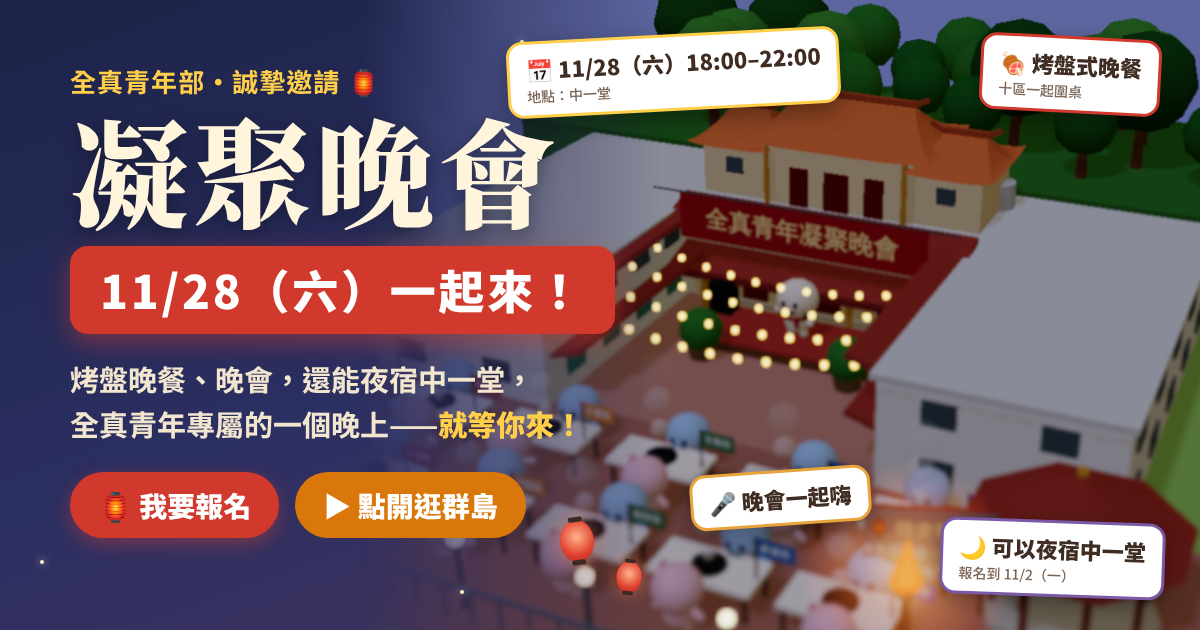
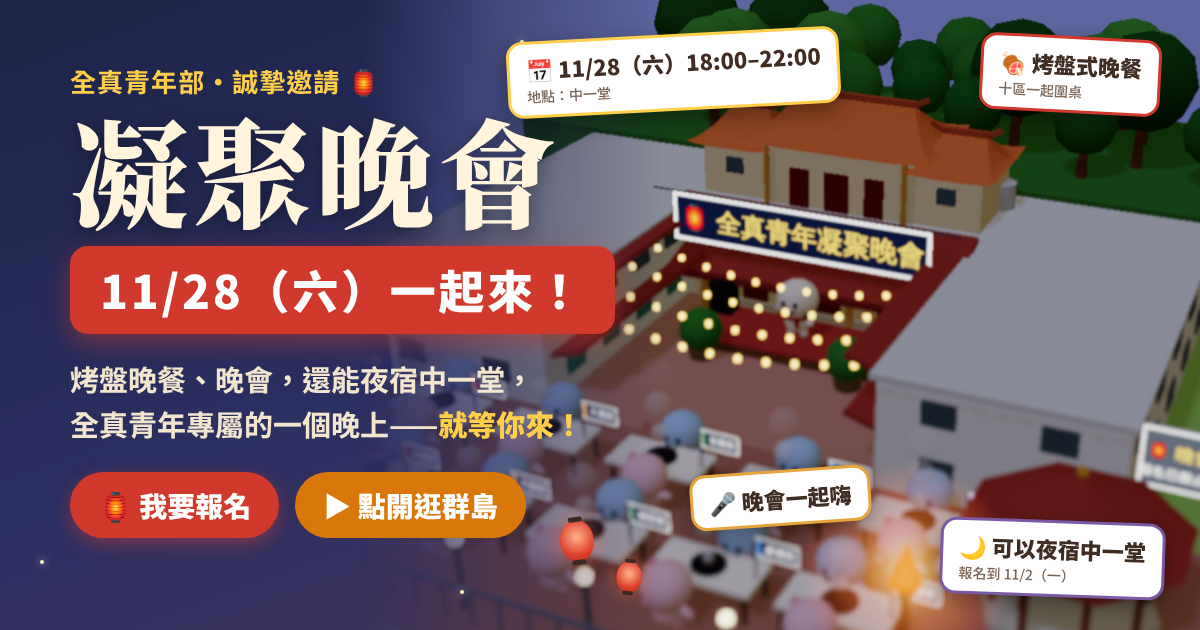
全真群島 v261028.11：中一島文宣改高對比深藍牌，報名牌不再跟涼亭重疊，重拍晚會海報
Claude-Session: https://claude.ai/code/session_01GmcmD8V22uoDLYZhsy1cUR

diff --git a/islands/index.html b/islands/index.html
@@ -443,7 +443,7 @@
   <p class="count bottle-count" id="bottleChip" role="button" tabindex="0" aria-label="前往漂流瓶島，看瓶中信或寫一封"><span id="bottleChipText">瓶中信</span></p>
   <a class="board" href="https://forms.gle/PG7yAsyz1r4unXXZ8" target="_blank" rel="noopener">🛶 我要登島</a>
   <span class="status" id="status" data-state="backup" role="button" tabindex="0" title="點一下重新讀取"><i></i><span id="statusText">讀取資料中…</span></span>
-  <span class="ver">v261028.10</span>
+  <span class="ver">v261028.11</span>
   </div></div>
 </div>
 
@@ -3091,6 +3091,13 @@ const zyIsl = (() => {
   const party = new THREE.Group(); mark.add(party);      // 當天才出現：人、烤盤的煙、舞台上的主持人
   venue.userData.noMerge = party.userData.noMerge = true;   // 會跟著日期顯示、收起來，不能合併
   const cloth = lam('#fbf6ec'), legM = lam('#7a5236'), grillM = lam('#2f2b2a');
+  // 島上文宣一律用「深藍底＋金白大字＋白色粗框」：群島上沒有深藍，跟紅瓦、紅涼亭、白牆、綠樹、紅磚地都對得出來，
+  // 牌面不吃光影（MeshBasic），白天不會被陰影壓暗，晚上像燈箱一樣看得清楚
+  const SIGN_BG = '#1d2547', SIGN_GOLD = '#ffd75e', SIGN_FONT = 'bold {px}px "Noto Sans TC", "PingFang TC", sans-serif';
+  const signFont = (px) => SIGN_FONT.replace('{px}', px);
+  const signMat = (tex) => new THREE.MeshBasicMaterial({ map: tex, side: THREE.DoubleSide, toneMapped: false });
+  const signFrame = (c, w, h, lw) => { c.strokeStyle = '#ffffff'; c.lineWidth = lw; c.strokeRect(lw / 2, lw / 2, w - lw, h - lw); };
+  const frameM = lam('#ffffff');
   // 10 區的烤盤長桌：兩排、每排五張，每張桌子一支小旗寫區名
   const REGIONS = ['天龍區', '天選區', '至善區', '光輝區', '天如區', '天儲區', '天隆區', '德容區', '參健區', '育樂營'];
   const flagCols = ['#e0412f', '#f2a33a', '#3f8a5a', '#2f80c9', '#8f5bd6'];
@@ -3103,9 +3110,12 @@ const zyIsl = (() => {
     for (const [lx, lz] of [[-0.75, -0.35], [0.75, -0.35], [-0.75, 0.35], [0.75, 0.35]]) mesh(new THREE.BoxGeometry(0.06, 0.6, 0.06), legM, lx, 0.3, lz, T, false);
     mesh(new THREE.CylinderGeometry(0.28, 0.28, 0.05, 16), grillM, 0, 0.69, 0, T, false);
     mesh(new THREE.CylinderGeometry(0.06, 0.08, 0.06, 8), lam('#5f6b73'), 0, 0.66, 0, T, false);
-    const ftex = canvasTex(128, 64, (c) => { c.fillStyle = flagCols[i % 5]; c.fillRect(0, 0, 128, 64); c.fillStyle = '#fff'; c.font = 'bold 34px "Noto Sans TC", "PingFang TC", sans-serif'; c.textAlign = 'center'; c.textBaseline = 'middle'; c.fillText(name, 64, 34); });
+    const ftex = canvasTex(160, 80, (c) => {
+      c.fillStyle = SIGN_BG; c.fillRect(0, 0, 160, 80); c.fillStyle = flagCols[i % 5]; c.fillRect(0, 0, 20, 80);
+      signFrame(c, 160, 80, 6); c.fillStyle = '#ffffff'; c.font = signFont(36); c.textAlign = 'center'; c.textBaseline = 'middle'; c.fillText(name, 90, 42);
+    });
     mesh(new THREE.CylinderGeometry(0.02, 0.02, 0.8, 5), legM, 0.78, 1.0, 0, T, false);
-    mesh(new THREE.PlaneGeometry(0.62, 0.31), new THREE.MeshLambertMaterial({ map: ftex, side: THREE.DoubleSide }), 0.78 + 0.31, 1.24, 0, T, false);
+    mesh(new THREE.PlaneGeometry(0.7, 0.35), signMat(ftex), 0.78 + 0.35, 1.24, 0, T, false);
     for (let k = 0; k < 3; k++) {
       const sm = mesh(new THREE.SphereGeometry(0.16, 8, 6), new THREE.MeshLambertMaterial({ color: '#f4f1ea', transparent: true, opacity: 0, depthWrite: false }), 0, 0.8, 0, T, false);
       sm.userData.phase = k / 3 + i * 0.13; smoke.push(sm); party.add(sm); sm.position.add(T.position);
@@ -3118,8 +3128,8 @@ const zyIsl = (() => {
   mesh(new THREE.BoxGeometry(4.3, 0.06, 1.6), lam('#c0503f'), 0, 0.32, 1.1, ST, false);
   for (const sx of [-1.9, 1.9]) { mesh(new THREE.BoxGeometry(0.5, 0.7, 0.4), lam('#2f2b2a'), sx, 0.7, 0.6, ST); }   // 兩顆音響
   // 橫布條：掛在兩翼之間
-  const bTex = canvasTex(512, 96, (c) => { c.fillStyle = '#c0392b'; c.fillRect(0, 0, 512, 96); c.fillStyle = '#ffe9a8'; c.font = 'bold 50px "Noto Sans TC", "PingFang TC", sans-serif'; c.textAlign = 'center'; c.textBaseline = 'middle'; c.fillText('全真青年凝聚晚會', 256, 50); });
-  mesh(new THREE.PlaneGeometry(5.4, 1.0), new THREE.MeshLambertMaterial({ map: bTex, side: THREE.DoubleSide }), 0, 2.55, 0.9, ST, false);
+  const bTex = canvasTex(640, 120, (c) => { c.fillStyle = SIGN_BG; c.fillRect(0, 0, 640, 120); signFrame(c, 640, 120, 10); c.fillStyle = SIGN_GOLD; c.font = signFont(64); c.textAlign = 'center'; c.textBaseline = 'middle'; c.fillText('🏮 全真青年凝聚晚會', 320, 64); });
+  mesh(new THREE.PlaneGeometry(5.6, 1.05), signMat(bTex), 0, 2.55, 1.0, ST, false);
   mesh(new THREE.CylinderGeometry(0.02, 0.02, WX * 2, 4), ropeM, 0, 3.05, 0.9, ST, false).rotation.z = Math.PI / 2;
   // 燈串：兩翼屋頂之間拉四條，微微下垂，掛一顆顆暖黃小燈泡（天黑會亮）
   const bulbM = glow('#ffd36b', 0.3, 2.2);
@@ -3133,17 +3143,18 @@ const zyIsl = (() => {
   mesh(new THREE.BoxGeometry(1.4, 0.08, 0.6), cloth, -1.2, 0.62, 0.3, PV);
   for (const lx of [-0.6, 0.6]) mesh(new THREE.BoxGeometry(0.06, 0.6, 0.5), legM, -1.2 + lx, 0.3, 0.3, PV, false);
   // 涼亭＝晚會報名處：旁邊立一塊「點我報名」的牌子，屋頂上一個金色箭頭上下跳；點涼亭或牌子就開報名表
-  const RS = new THREE.Group(); RS.position.set(-1.9, 0, 1.0); RS.rotation.y = 0.3; PV.add(RS);
+  // 牌子立在涼亭右後方的空地（右翼前面、島邊以內），不跟涼亭屋頂或報到桌重疊
+  const RS = new THREE.Group(); RS.position.set(1.5, 0, -2.4); PV.add(RS);
   const rsCanvas = document.createElement('canvas'); rsCanvas.width = 384; rsCanvas.height = 200;
   const rsTex = new THREE.CanvasTexture(rsCanvas); rsTex.colorSpace = THREE.SRGBColorSpace;
-  mesh(new THREE.BoxGeometry(1.9, 1.0, 0.08), [lam('#c0392b'), lam('#c0392b'), lam('#c0392b'), lam('#c0392b'), new THREE.MeshLambertMaterial({ map: rsTex }), lam('#c0392b')], 0, 1.45, 0, RS, false);
+  mesh(new THREE.BoxGeometry(2.1, 1.1, 0.08), [frameM, frameM, frameM, frameM, signMat(rsTex), frameM], 0, 1.5, 0, RS, false);
   for (const x of [-0.8, 0.8]) mesh(new THREE.CylinderGeometry(0.04, 0.04, 1.5, 6), legM, x, 0.75, -0.06, RS, false);
   const drawReg = (open) => {
     const c = rsCanvas.getContext('2d');
-    c.fillStyle = open ? '#c0392b' : '#8d9196'; c.fillRect(0, 0, 384, 200);
-    c.textAlign = 'center'; c.textBaseline = 'middle'; c.fillStyle = '#ffe9a8';
-    c.font = 'bold 56px "Noto Sans TC", "PingFang TC", sans-serif'; c.fillText('🏮 晚會報名處', 192, 70);
-    c.fillStyle = '#ffffff'; c.font = 'bold 40px "Noto Sans TC", "PingFang TC", sans-serif'; c.fillText(open ? '👆 點我報名・到 11/2' : '報名已截止・謝謝大家', 192, 148);
+    c.fillStyle = open ? SIGN_BG : '#5f6672'; c.fillRect(0, 0, 384, 200); signFrame(c, 384, 200, 10);
+    c.textAlign = 'center'; c.textBaseline = 'middle'; c.fillStyle = SIGN_GOLD;
+    c.font = signFont(54); c.fillText('🏮 晚會報名處', 192, 72);
+    c.fillStyle = '#ffffff'; c.font = signFont(38); c.fillText(open ? '👆 點我報名・到 11/2' : '報名已截止・謝謝大家', 192, 146);
     rsTex.needsUpdate = true;
   };
   const arrow = new THREE.Group(); arrow.position.set(0, 3.1, 0); PV.add(arrow);
@@ -3155,18 +3166,17 @@ const zyIsl = (() => {
   const SB = new THREE.Group(); SB.position.set(-(px(PZ0 + 1.6) - 1.9), 0, PZ0 + 1.6); SB.rotation.y = 0.35; mark.add(SB);
   const sbCanvas = document.createElement('canvas'); sbCanvas.width = 512; sbCanvas.height = 300;
   const sbTex = new THREE.CanvasTexture(sbCanvas); sbTex.colorSpace = THREE.SRGBColorSpace;
-  mesh(new THREE.BoxGeometry(3.0, 1.75, 0.1), [lam('#7a5236'), lam('#7a5236'), lam('#7a5236'), lam('#7a5236'), new THREE.MeshLambertMaterial({ map: sbTex }), lam('#7a5236')], 0, 1.75, 0, SB, false);
+  mesh(new THREE.BoxGeometry(3.0, 1.75, 0.1), [frameM, frameM, frameM, frameM, signMat(sbTex), frameM], 0, 1.75, 0, SB, false);
   for (const x of [-1.3, 1.3]) mesh(new THREE.CylinderGeometry(0.06, 0.06, 2.6, 6), legM, x, 1.3, -0.08, SB, false);
   let sbText = '';
   const drawSign = (lines) => {
     const key = lines.join('|'); if (key === sbText) return; sbText = key;
     const c = sbCanvas.getContext('2d');
-    c.fillStyle = '#fff6e0'; c.fillRect(0, 0, 512, 300);
-    c.fillStyle = '#c0392b'; c.fillRect(0, 0, 512, 78);
+    c.fillStyle = SIGN_BG; c.fillRect(0, 0, 512, 300); signFrame(c, 512, 300, 12);
     c.textAlign = 'center'; c.textBaseline = 'middle';
-    c.fillStyle = '#ffe9a8'; c.font = 'bold 44px "Noto Sans TC", "PingFang TC", sans-serif'; c.fillText(lines[0], 256, 42);
-    c.fillStyle = '#3f2c22'; c.font = 'bold 54px "Noto Sans TC", "PingFang TC", sans-serif'; c.fillText(lines[1], 256, 150);
-    c.fillStyle = '#7a6455'; c.font = 'bold 34px "Noto Sans TC", "PingFang TC", sans-serif'; c.fillText(lines[2], 256, 236);
+    c.fillStyle = SIGN_GOLD; c.font = signFont(42); c.fillText(lines[0], 256, 58);
+    c.fillStyle = '#ffffff'; c.font = signFont(70); c.fillText(lines[1], 256, 152);
+    c.fillStyle = SIGN_GOLD; c.font = signFont(34); c.fillText(lines[2], 256, 238);
     sbTex.needsUpdate = true;
   };
   // 當天的人：每張桌子兩位（乾道淡藍、坤道淡粉），舞台上一位拿麥克風的主持人

diff --git a/index.html b/index.html
@@ -1430,7 +1430,7 @@
         <a href="#flow">🔋 每日流程</a>
         <a href="#schedule">📅 年度企劃</a>
         <a href="#org">🤝 同行夥伴</a>
-        <a class="nav-islands" href="islands/?v=26102810">🏝 全真群島</a>
+        <a class="nav-islands" href="islands/?v=26102811">🏝 全真群島</a>
       </div>
       <button type="button" class="theme-btn" id="themeBtn" aria-label="切換暗色主題" aria-pressed="false" title="切換暗色／淺色主題"><svg class="moon" viewBox="0 0 24 24" fill="none" stroke="currentColor" stroke-width="2" stroke-linecap="round" stroke-linejoin="round" aria-hidden="true"><path d="M21 12.8A9 9 0 1 1 11.2 3a7 7 0 0 0 9.8 9.8z"/></svg><svg class="sun" viewBox="0 0 24 24" fill="none" stroke="currentColor" stroke-width="2" stroke-linecap="round" aria-hidden="true"><circle cx="12" cy="12" r="4.5"/><path d="M12 2v2.5M12 19.5V22M2 12h2.5M19.5 12H22M4.9 4.9l1.8 1.8M17.3 17.3l1.8 1.8M4.9 19.1l1.8-1.8M17.3 6.7l1.8-1.8"/></svg></button>
       <button class="nav-toggle" id="navToggle" aria-label="開啟選單" aria-expanded="false" aria-controls="navLinks" onclick="toggleNav()">
@@ -1459,7 +1459,7 @@
       </div>
 
       <!-- 全真群島放在最上面，讓訪客一進來先看到：九座課程島串起一整年，跟著報名人數慢慢熱鬧起來 -->
-      <a class="xy-banner" href="islands/?v=26102810">
+      <a class="xy-banner" href="islands/?v=26102811">
         <img src="islands/og-islands.png?v=26102623" alt="全真群島：中央是全真道院，九座課程島用木橋串起 2027 一整年">
         <div>
           <span class="tag">🏝 3D 互動地圖</span>

diff --git a/islands/party/index.html b/islands/party/index.html
@@ -11,8 +11,8 @@
 <meta property="og:title" content="🏮 全真青年凝聚晚會 11/28（六）一起來！">
 <meta property="og:description" content="烤盤晚餐、晚會，還能夜宿中一堂——就等你來！點開到中一島，涼亭就是報名處（報名到 11/2）。">
 <meta property="og:url" content="https://steven4dev.github.io/yiguandao-2027-course/islands/party/">
-<meta property="og:image" content="https://steven4dev.github.io/yiguandao-2027-course/islands/party/og.png?v=1">
-<meta property="og:image:secure_url" content="https://steven4dev.github.io/yiguandao-2027-course/islands/party/og.png?v=1">
+<meta property="og:image" content="https://steven4dev.github.io/yiguandao-2027-course/islands/party/og.png?v=2">
+<meta property="og:image:secure_url" content="https://steven4dev.github.io/yiguandao-2027-course/islands/party/og.png?v=2">
 <meta property="og:image:type" content="image/png">
 <meta property="og:image:width" content="1200">
 <meta property="og:image:height" content="630">

diff --git a/islands/CHANGELOG.md b/islands/CHANGELOG.md
@@ -3,6 +3,11 @@
 網頁左上角品牌卡最下面的淡色小字就是版本編號，格式跟褪下仙衣一樣是 `v年月日.當天第幾版`，例如 `v261025.01` 代表 2026/10/25 的第 1 版。
 打開網頁看到的編號和這裡最上面的一筆相同，就代表已經更新成功；如果還是舊編號，等幾分鐘再重新整理。
 
+## v261028.11
+- 修正中一島「晚會報名處」牌子跟涼亭重疊：牌子移到涼亭右後方的空地。
+- 中一島的文宣全部重新設計，避免被紅瓦、紅涼亭、紅磚地、白牆、綠樹吃掉：橫布條、倒數看板、報名處牌子、十區小旗一律改成「深藍底＋金色／白色大字＋白色粗框」，字放大；牌面不吃光影，白天不會被陰影壓暗，晚上像燈箱一樣清楚。區旗保留左邊一條區色。
+- 凝聚晚會的 LINE 預覽海報跟著重拍（og.png?v=2）。
+
 ## v261028.10
 - 品牌卡的凝聚晚會那一行縮短成「🏮 凝聚晚會還有 N 天・去報名 ›」（11/3 起「去看看 ›」，當天「今晚凝聚晚會・去看看 ›」）；日期、截止日、時間都在中一島的資訊卡裡。
 

diff --git a/islands/promo/README.md b/islands/promo/README.md
@@ -34,6 +34,11 @@
 - 大標題改用米白 #fff4dc，系列名和強調字用金色 #ffcf4a，主題色用燈籠紅 #d0392b；說明文字用淡米色 #f3e6cf。
 - 小卡維持白底彩框，陰影加深一點，才浮得起來。
 
+## 島上文宣（3D 場景裡的布條、看板、牌子）
+- 不要用紅底、白底、綠底：會被紅瓦、紅磚地、白牆、草地吃掉。一律「深藍底 #1d2547＋金字 #ffd75e／白字＋白色粗框」，字越大越好。
+- 牌面用不吃光影的材質（MeshBasicMaterial、toneMapped: false），白天不會被陰影壓暗，晚上自然像燈箱。
+- 牌子不要跟建物、涼亭、樹重疊；放在空地上，白天、晚上各截一張圖確認。
+
 ## 製作方式
 1. 用測試環境打開群島（`?t=12:00`），隱藏介面，把鏡頭拉近主角島，截一張 1000×700 當 `art.png`。
 2. 複製 `poster-template.html`，改左邊文字、主題色、四張小卡。
